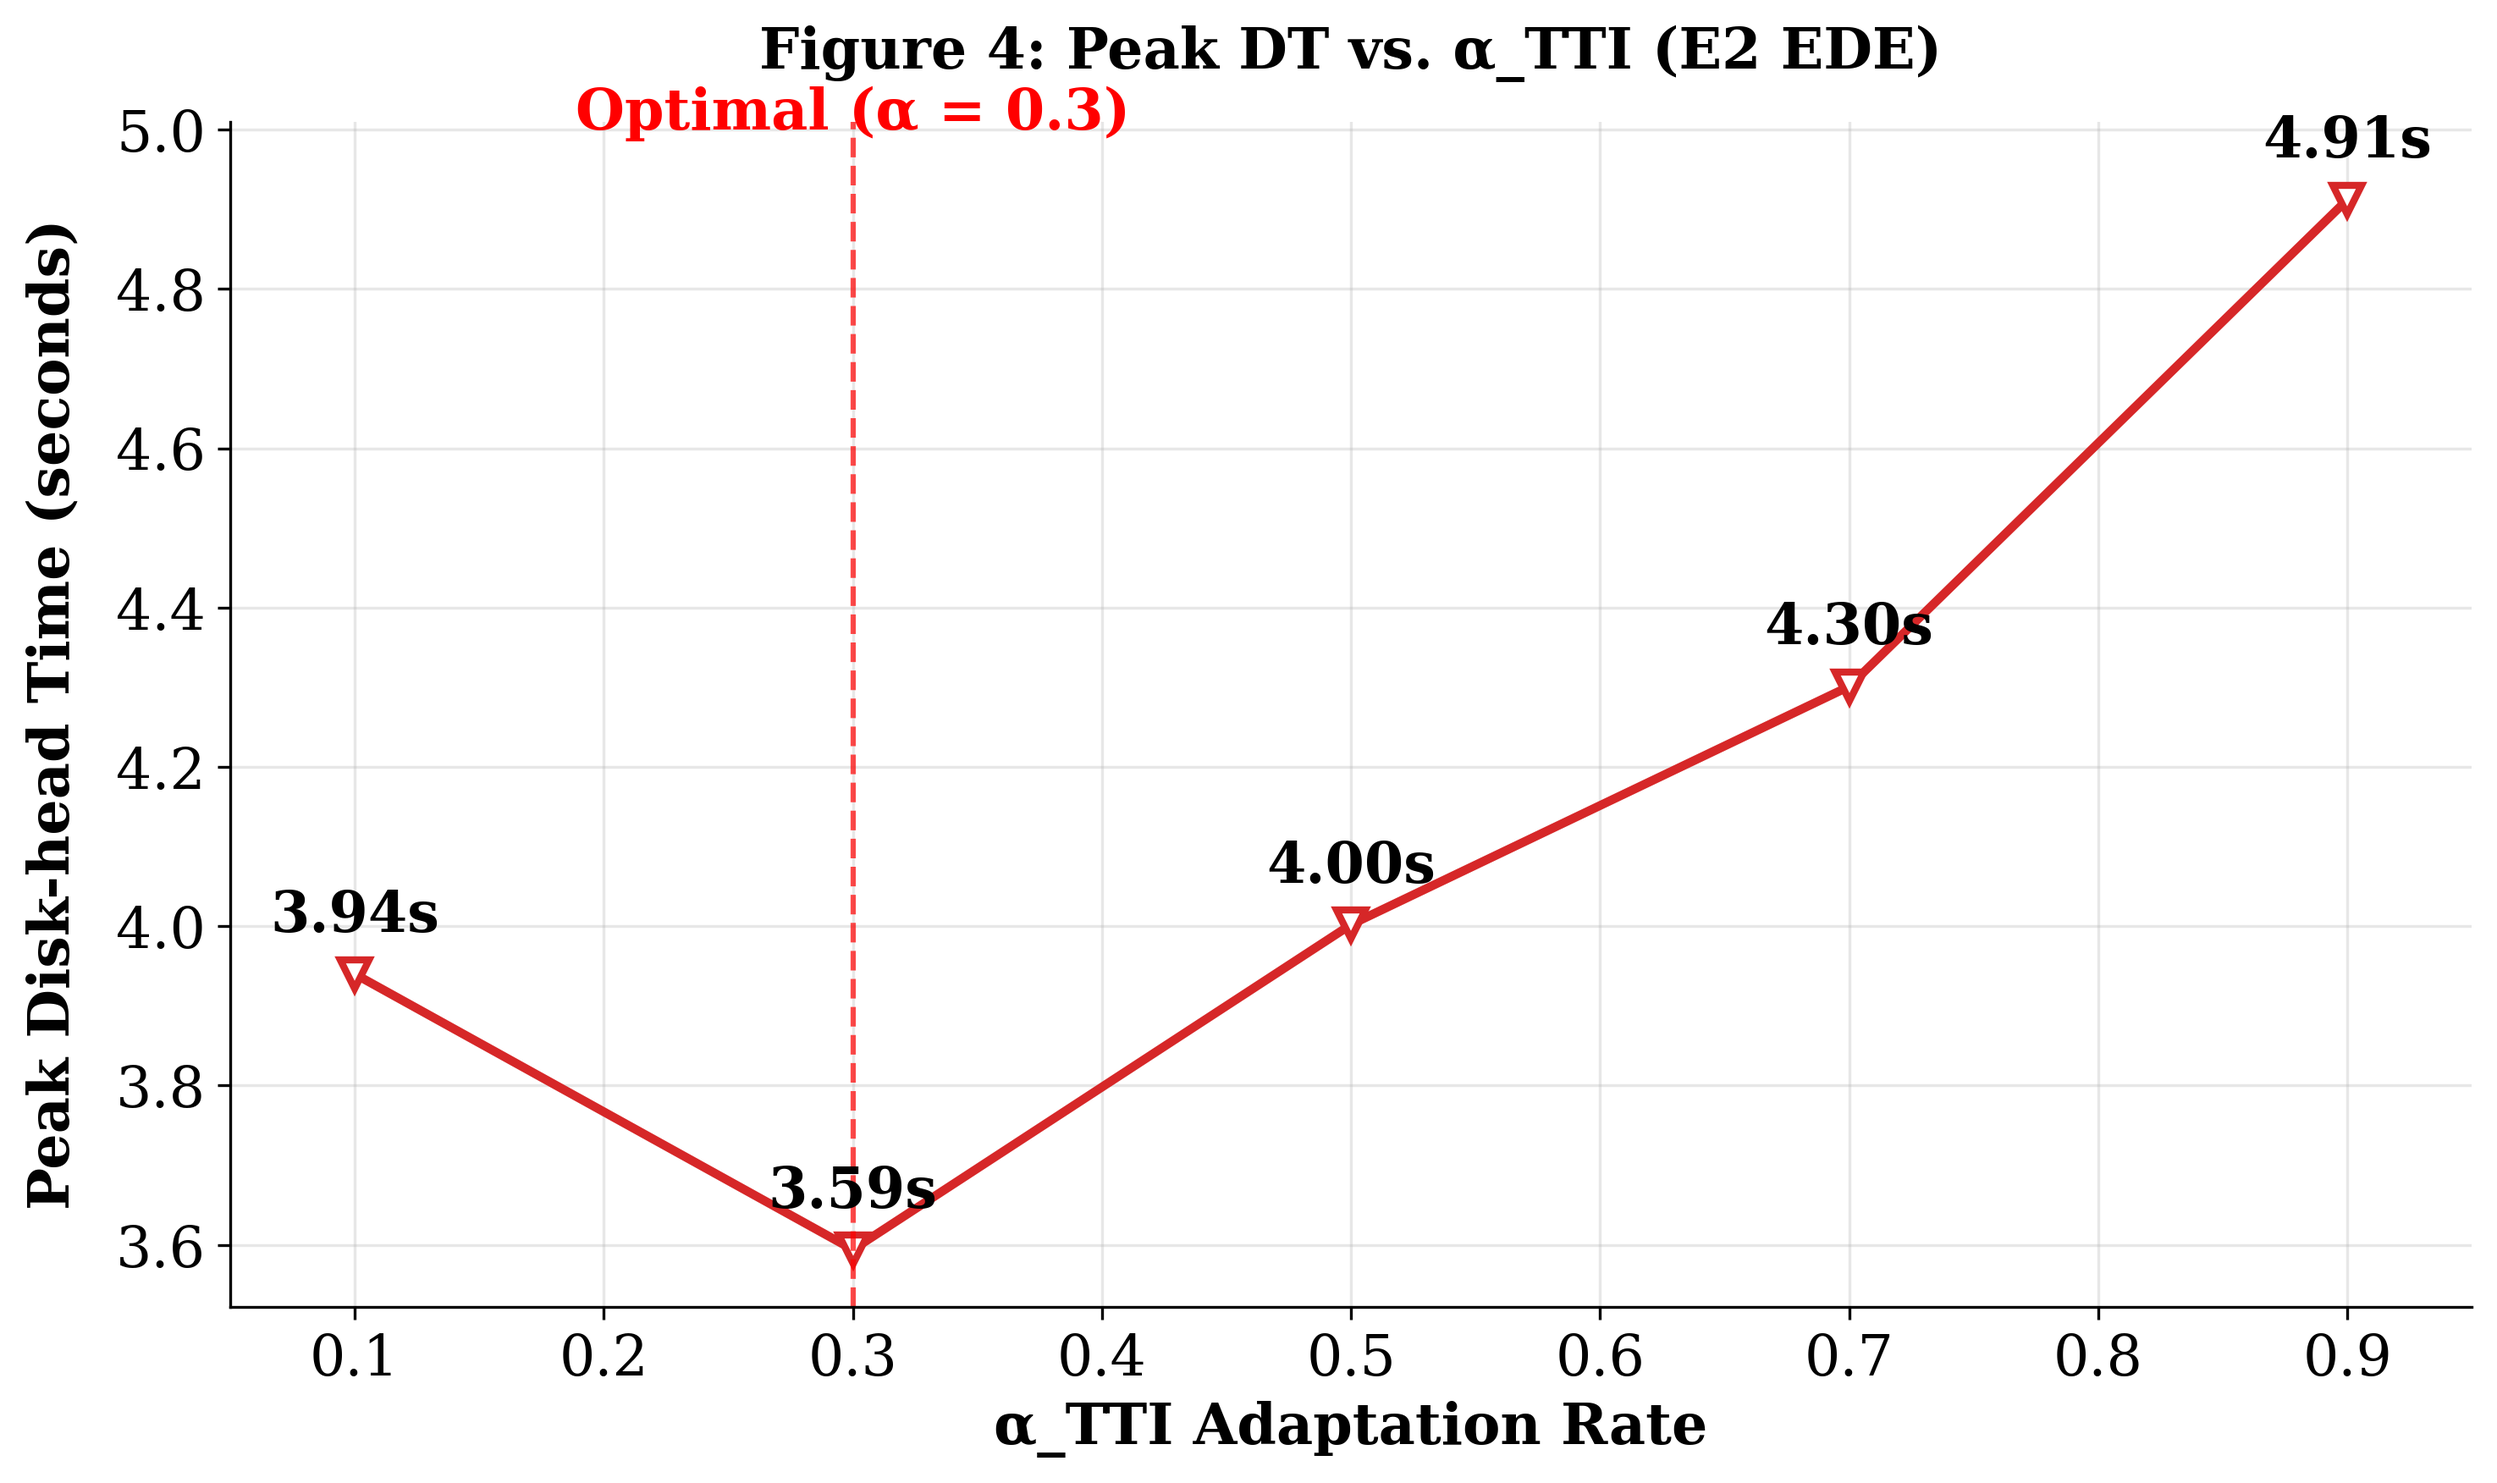
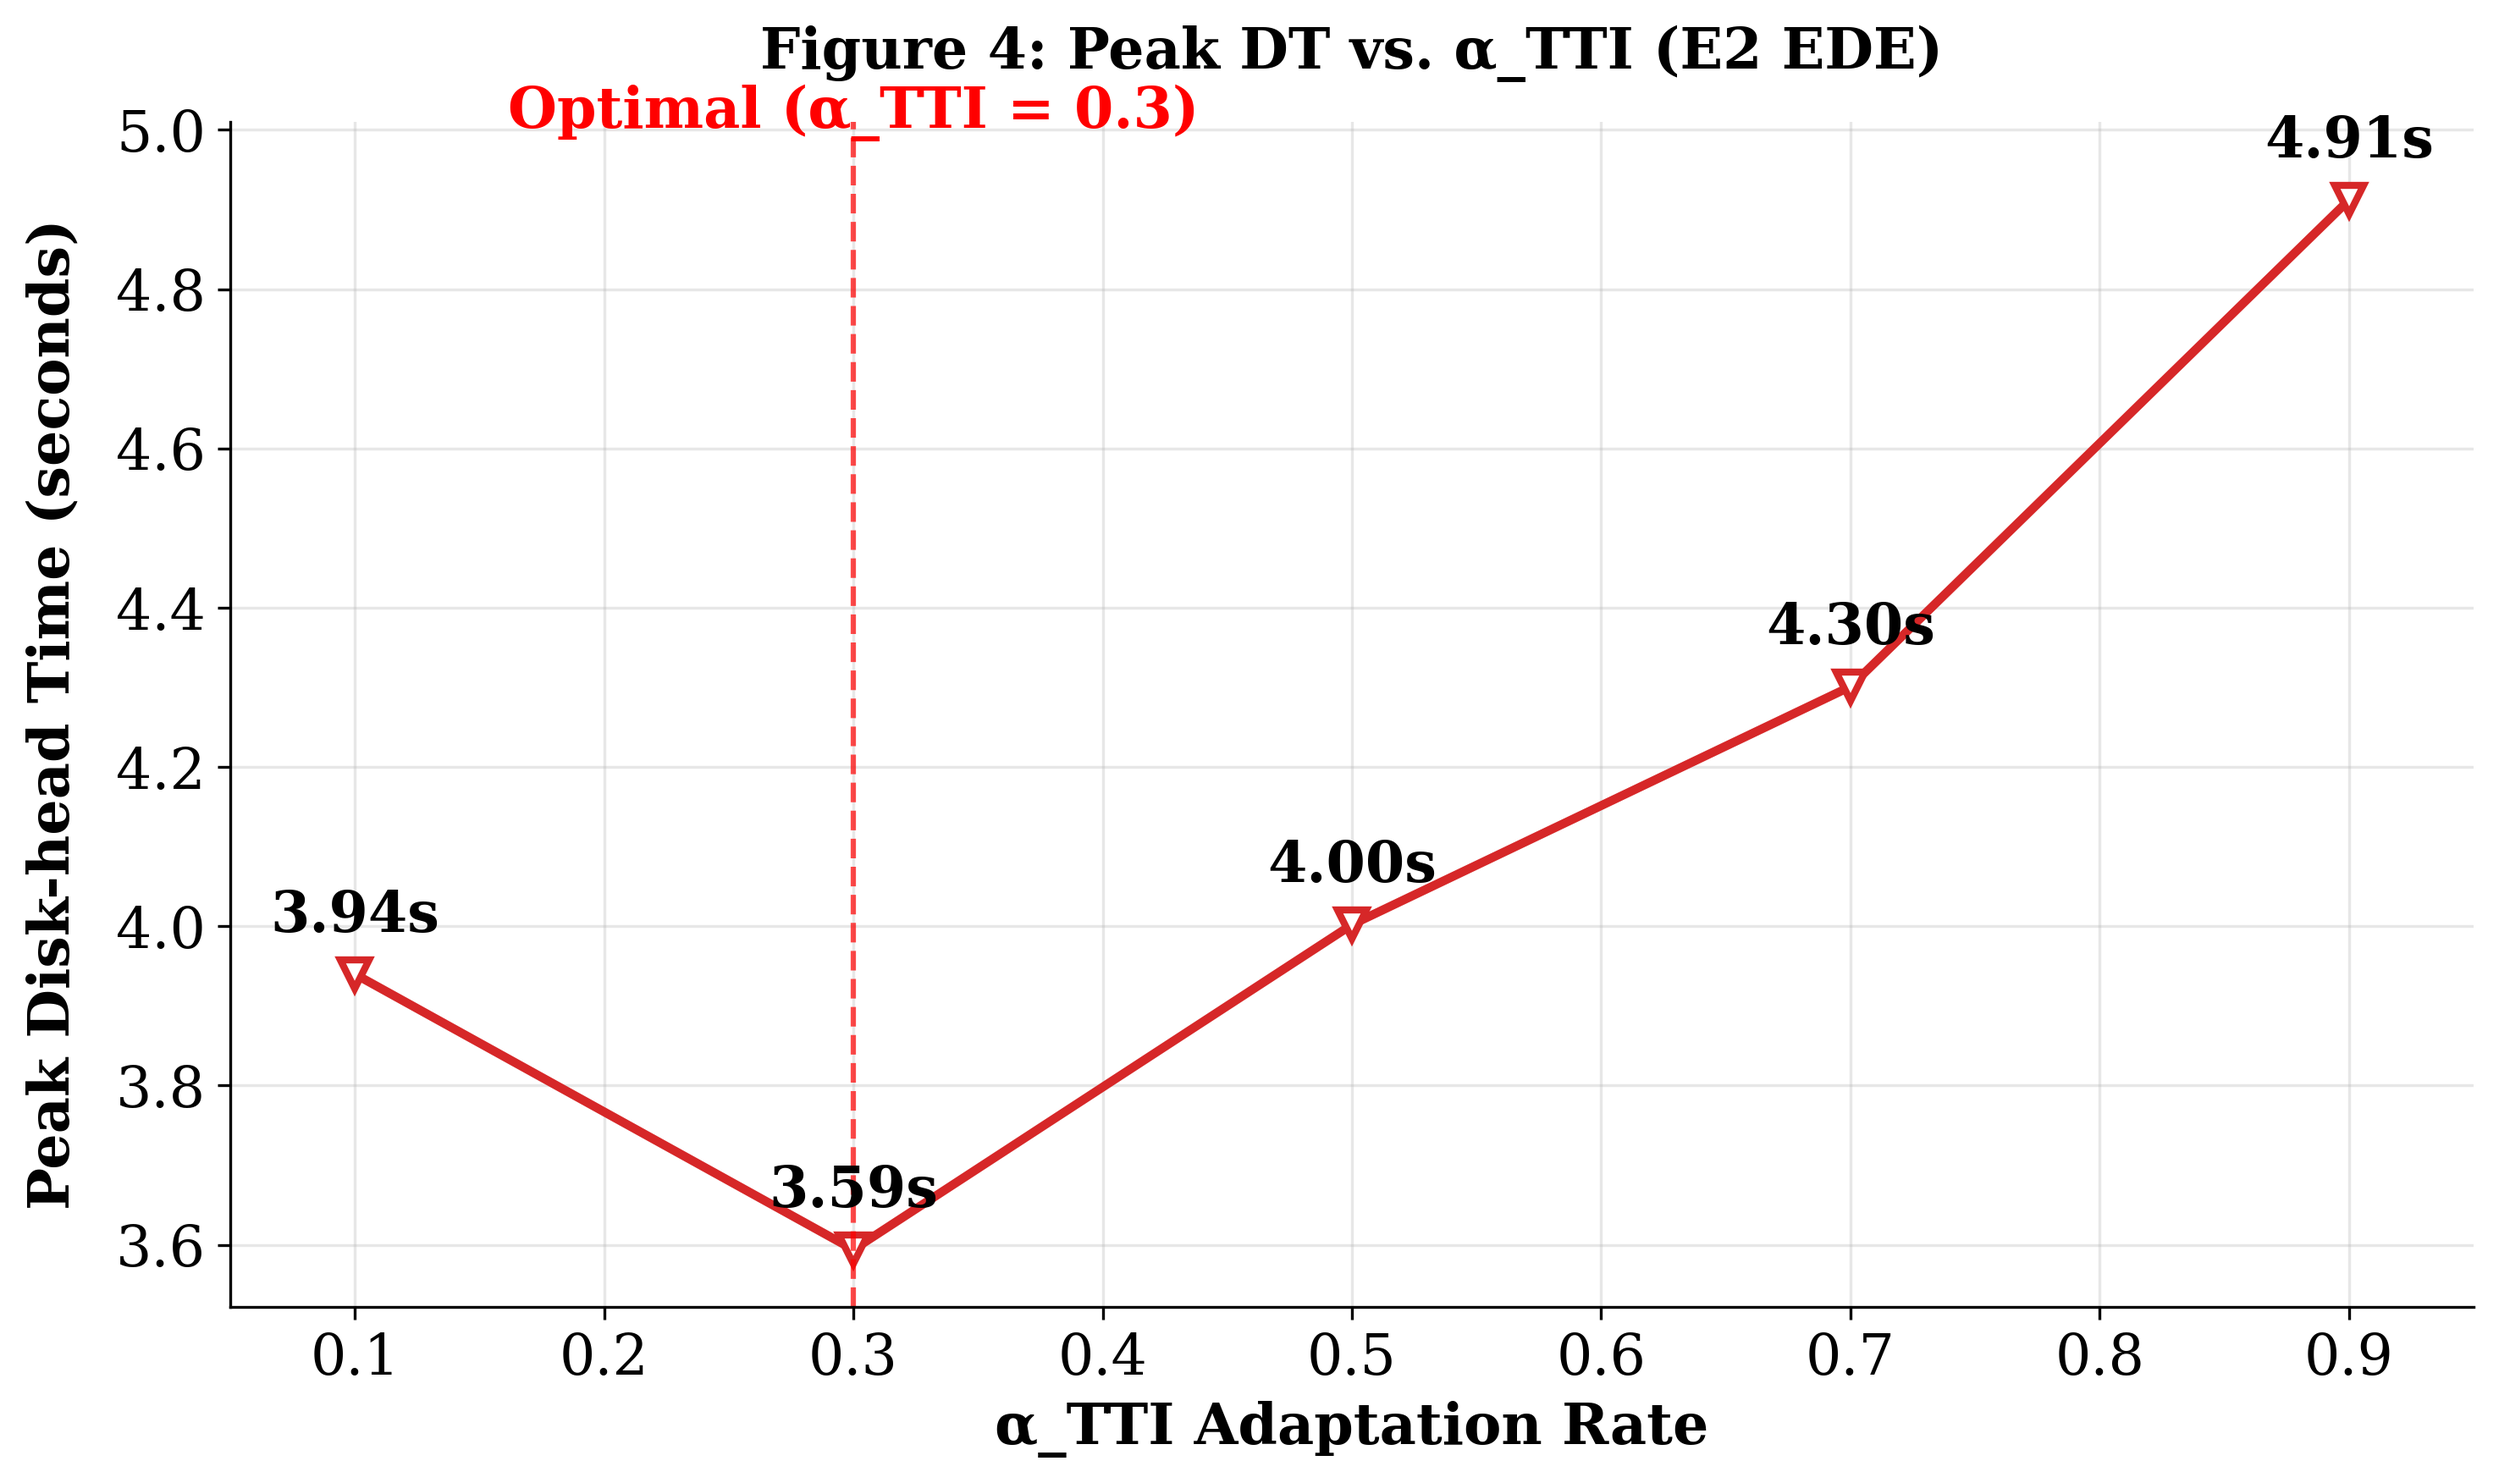
Edited the figure 4 to include full parameter name

diff --git a/assignment5/scripts/figures/generate_figure_4_alpha_tti.py b/assignment5/scripts/figures/generate_figure_4_alpha_tti.py
@@ -110,7 +110,7 @@ def generate_figure_4_peak_dt(results):
     min_dt_idx = peak_dt_values.index(min(peak_dt_values))
     optimal_alpha = alpha_values[min_dt_idx]
     ax.axvline(x=optimal_alpha, color='red', linestyle='--', alpha=0.7, linewidth=1.5)
-    ax.text(optimal_alpha, y_max * 1.015, f'Optimal (α = {optimal_alpha:.1f})', 
+    ax.text(optimal_alpha, y_max * 1.015, f'Optimal (α_TTI = {optimal_alpha:.1f})', 
             ha='center', va='bottom', fontsize=16, color='red', fontweight='bold')
     
     plt.tight_layout()
